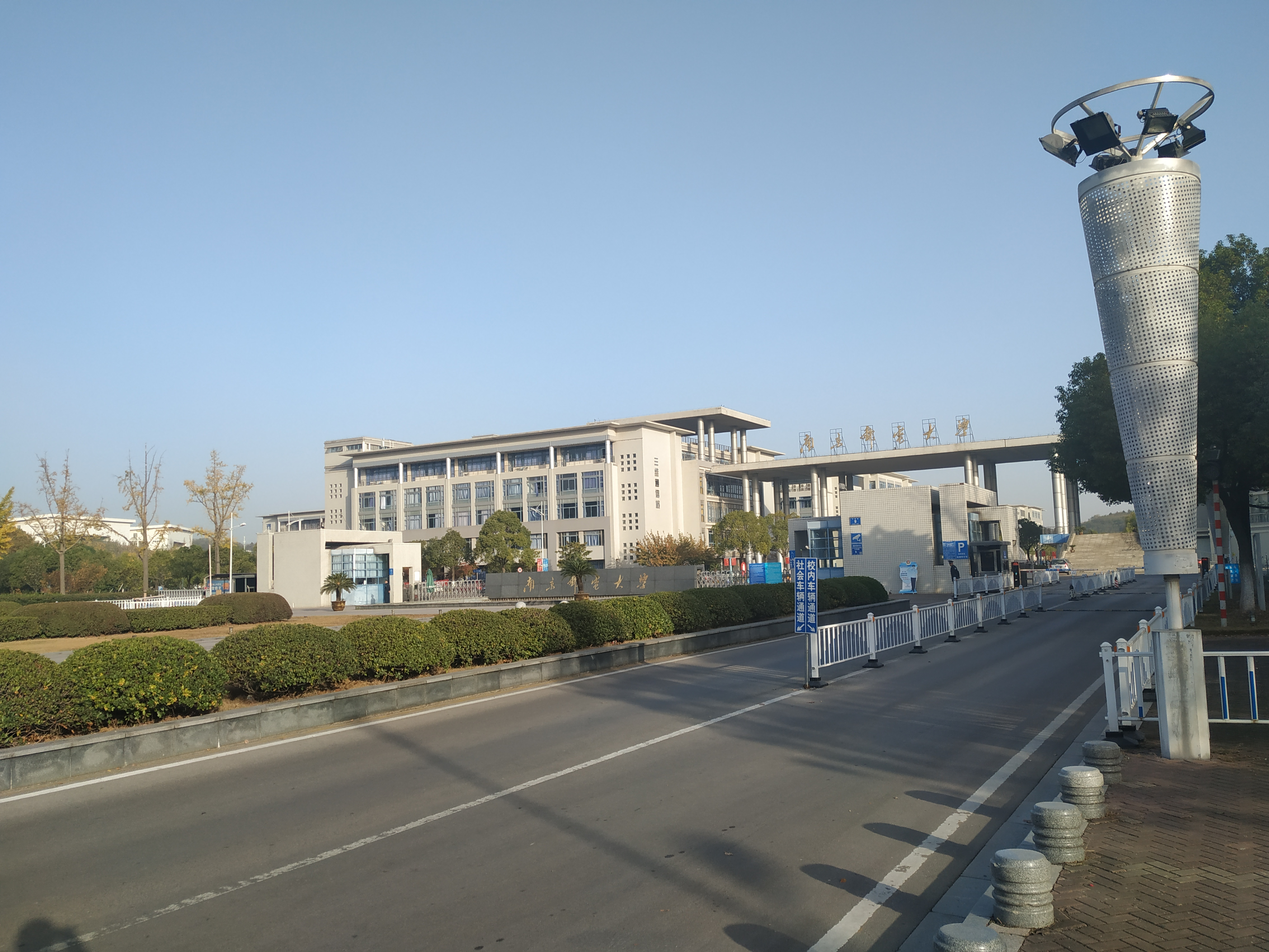
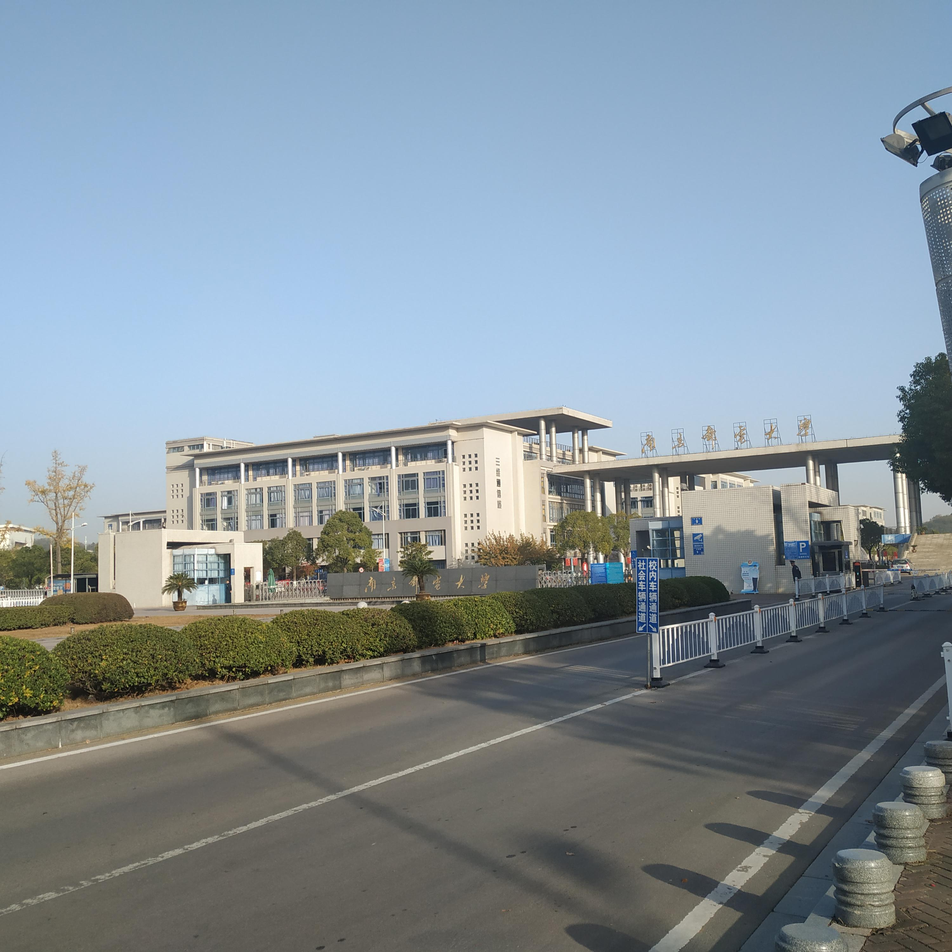
add photos

diff --git a/tool.py b/tool.py
@@ -1,0 +1,179 @@
+#coding: utf-8
+from PIL import Image
+import os
+import sys
+import json
+from datetime import datetime
+from ImageProcess import Graphics
+
+# 定义压缩比，数值越大，压缩越小
+SIZE_normal = 1.0
+SIZE_small = 1.5
+SIZE_more_small = 2.0
+SIZE_more_small_small = 3.0
+
+
+def make_directory(directory):
+    """创建目录"""
+    os.makedirs(directory)
+
+def directory_exists(directory):
+    """判断目录是否存在"""
+    if os.path.exists(directory):
+        return True
+    else:
+        return False
+
+def list_img_file(directory):
+    """列出目录下所有文件，并筛选出图片文件列表返回"""
+    old_list = os.listdir(directory)
+    # print old_list
+    new_list = []
+    for filename in old_list:
+        name, fileformat = filename.split(".")
+        if fileformat.lower() == "jpg" or fileformat.lower() == "png" or fileformat.lower() == "gif":
+            new_list.append(filename)
+    # print new_list
+    return new_list
+
+
+def print_help():
+    print("""
+    This program helps compress many image files
+    you can choose which scale you want to compress your img(jpg/png/etc)
+    1) normal compress(4M to 1M around)
+    2) small compress(4M to 500K around)
+    3) smaller compress(4M to 300K around)
+    """)
+
+def compress(choose, des_dir, src_dir, file_list):
+    """压缩算法，img.thumbnail对图片进行压缩，
+    
+    参数
+    -----------
+    choose: str
+            选择压缩的比例，有4个选项，越大压缩后的图片越小
+    """
+    if choose == '1':
+        scale = SIZE_normal
+    if choose == '2':
+        scale = SIZE_small
+    if choose == '3':
+        scale = SIZE_more_small
+    if choose == '4':
+        scale = SIZE_more_small_small
+    for infile in file_list:
+        img = Image.open(src_dir+infile)
+        # size_of_file = os.path.getsize(infile)
+        w, h = img.size
+        img.thumbnail((int(w/scale), int(h/scale)))
+        img.save(des_dir + infile)
+def compress_photo():
+    '''调用压缩图片的函数
+    '''
+    src_dir, des_dir = "photos/", "min_photos/"
+    
+    if directory_exists(src_dir):
+        if not directory_exists(src_dir):
+            make_directory(src_dir)
+        # business logic
+        file_list_src = list_img_file(src_dir)
+    if directory_exists(des_dir):
+        if not directory_exists(des_dir):
+            make_directory(des_dir)
+        file_list_des = list_img_file(des_dir)
+        # print file_list
+    '''如果已经压缩了，就不再压缩'''
+    for i in range(len(file_list_des)):
+        if file_list_des[i] in file_list_src:
+            file_list_src.remove(file_list_des[i])
+    if len(file_list_src) == 0:
+        print("=====没有新文件需要压缩=======")
+    compress('4', des_dir, src_dir, file_list_src)
+
+def handle_photo():
+    '''根据图片的文件名处理成需要的json格式的数据
+    
+    -----------
+    最后将data.json文件存到博客的source/photos文件夹下
+    '''
+    src_dir, des_dir = "photos/", "min_photos/"
+    file_list = list_img_file(src_dir)
+    list_info = []
+    file_list.sort(key=lambda x: x.split('_')[0])   # 按照日期排序
+    for i in range(len(file_list)):
+        filename = file_list[i]
+        date_str, info = filename.split("_")
+        info, _ = info.split(".")
+        date = datetime.strptime(date_str, "%Y-%m-%d")
+        year_month = date_str[0:7]            
+        if i == 0:  # 处理第一个文件
+            new_dict = {"date": year_month, "arr":{'year': date.year,
+                                                                   'month': date.month,
+                                                                   'link': [filename],
+                                                                   'text': [info],
+                                                                   'type': ['image']
+                                                                   }
+                                        } 
+            list_info.append(new_dict)
+        elif year_month != list_info[-1]['date']:  # 不是最后的一个日期，就新建一个dict
+            new_dict = {"date": year_month, "arr":{'year': date.year,
+                                                   'month': date.month,
+                                                   'link': [filename],
+                                                   'text': [info],
+                                                   'type': ['image']
+                                                   }
+                        }
+            list_info.append(new_dict)
+        else:  # 同一个日期
+            list_info[-1]['arr']['link'].append(filename)
+            list_info[-1]['arr']['text'].append(info)
+            list_info[-1]['arr']['type'].append('image')
+    list_info.reverse()  # 翻转
+    final_dict = {"list": list_info}
+    with open("../lawlite19.github.io/source/photos/data.json","w") as fp:
+        json.dump(final_dict, fp)
+
+def cut_photo():
+    """裁剪算法
+    
+    ----------
+    调用Graphics类中的裁剪算法，将src_dir目录下的文件进行裁剪（裁剪成正方形）
+    """
+    src_dir = "photos/"
+    if directory_exists(src_dir):
+        if not directory_exists(src_dir):
+            make_directory(src_dir)
+        # business logic
+        file_list = list_img_file(src_dir)
+        # print file_list
+        if file_list:
+            print_help()
+            for infile in file_list:
+                img = Image.open(src_dir+infile)
+                Graphics(infile=src_dir+infile, outfile=src_dir + infile).cut_by_ratio()            
+        else:
+            pass
+    else:
+        print("source directory not exist!")     
+
+
+
+def git_operation():
+    '''
+    git 命令行函数，将仓库提交
+    
+    ----------
+    需要安装git命令行工具，并且添加到环境变量中
+    '''
+    os.system('git add --all')
+    os.system('git commit -m "add photos"')
+    os.system('git push origin master')
+
+if __name__ == "__main__":
+    cut_photo()        # 裁剪图片，裁剪成正方形，去中间部分
+    compress_photo()   # 压缩图片，并保存到mini_photos文件夹下
+    git_operation()    # 提交到github仓库
+    handle_photo()     # 将文件处理成json格式，存到博客仓库中
+    
+    

diff --git a/ImageProcess.py b/ImageProcess.py
@@ -1,0 +1,80 @@
+# coding=utf-8  
+from PIL import Image  
+import shutil  
+import os  
+
+class Graphics:  
+    '''图片处理类
+    
+    参数
+    -------
+    infile: 输入文件路径
+    outfile: 输出文件路径
+    '''
+    def __init__(self, infile, outfile):
+        self.infile = infile
+        self.outfile = outfile
+
+    def fixed_size(self, width, height):  
+        """按照固定尺寸处理图片"""  
+        im = Image.open(self.infile)  
+        out = im.resize((width, height),Image.ANTIALIAS)  
+        out.save(self.outfile)  
+
+
+    def resize_by_width(self, w_divide_h):  
+        """按照宽度进行所需比例缩放"""  
+        im = Image.open(self.infile)  
+        (x, y) = im.size   
+        x_s = x  
+        y_s = x/w_divide_h  
+        out = im.resize((x_s, y_s), Image.ANTIALIAS)   
+        out.save(self.outfile)  
+
+
+    def resize_by_height(self, w_divide_h):  
+        """按照高度进行所需比例缩放"""  
+        im = Image.open(self.infile)  
+        (x, y) = im.size   
+        x_s = y*w_divide_h  
+        y_s = y  
+        out = im.resize((x_s, y_s), Image.ANTIALIAS)   
+        out.save(self.outfile)  
+
+
+    def resize_by_size(self, size):  
+        """按照生成图片文件大小进行处理(单位KB)"""  
+        size *= 1024  
+        im = Image.open(self.infile)  
+        size_tmp = os.path.getsize(self.infile)  
+        q = 100  
+        while size_tmp > size and q > 0:  
+            print (q)  
+            out = im.resize(im.size, Image.ANTIALIAS)  
+            out.save(self.outfile, quality=q)  
+            size_tmp = os.path.getsize(self.outfile)  
+            q -= 5  
+        if q == 100:  
+            shutil.copy(self.infile, self.outfile)  
+
+  
+    def cut_by_ratio(self):  
+        """按照图片长宽进行分割
+        
+        ------------
+        取中间的部分，裁剪成正方形
+        """  
+        im = Image.open(self.infile)  
+        (x, y) = im.size  
+        if x > y:  
+            region = (int(x/2-y/2), 0, int(x/2+y/2), y)  
+            #裁切图片  
+            crop_img = im.crop(region)  
+            #保存裁切后的图片  
+            crop_img.save(self.outfile)             
+        elif x < y:  
+            region = (0, int(y/2-x/2), x, int(y/2+x/2))
+            #裁切图片  
+            crop_img = im.crop(region)  
+            #保存裁切后的图片  
+            crop_img.save(self.outfile) 
